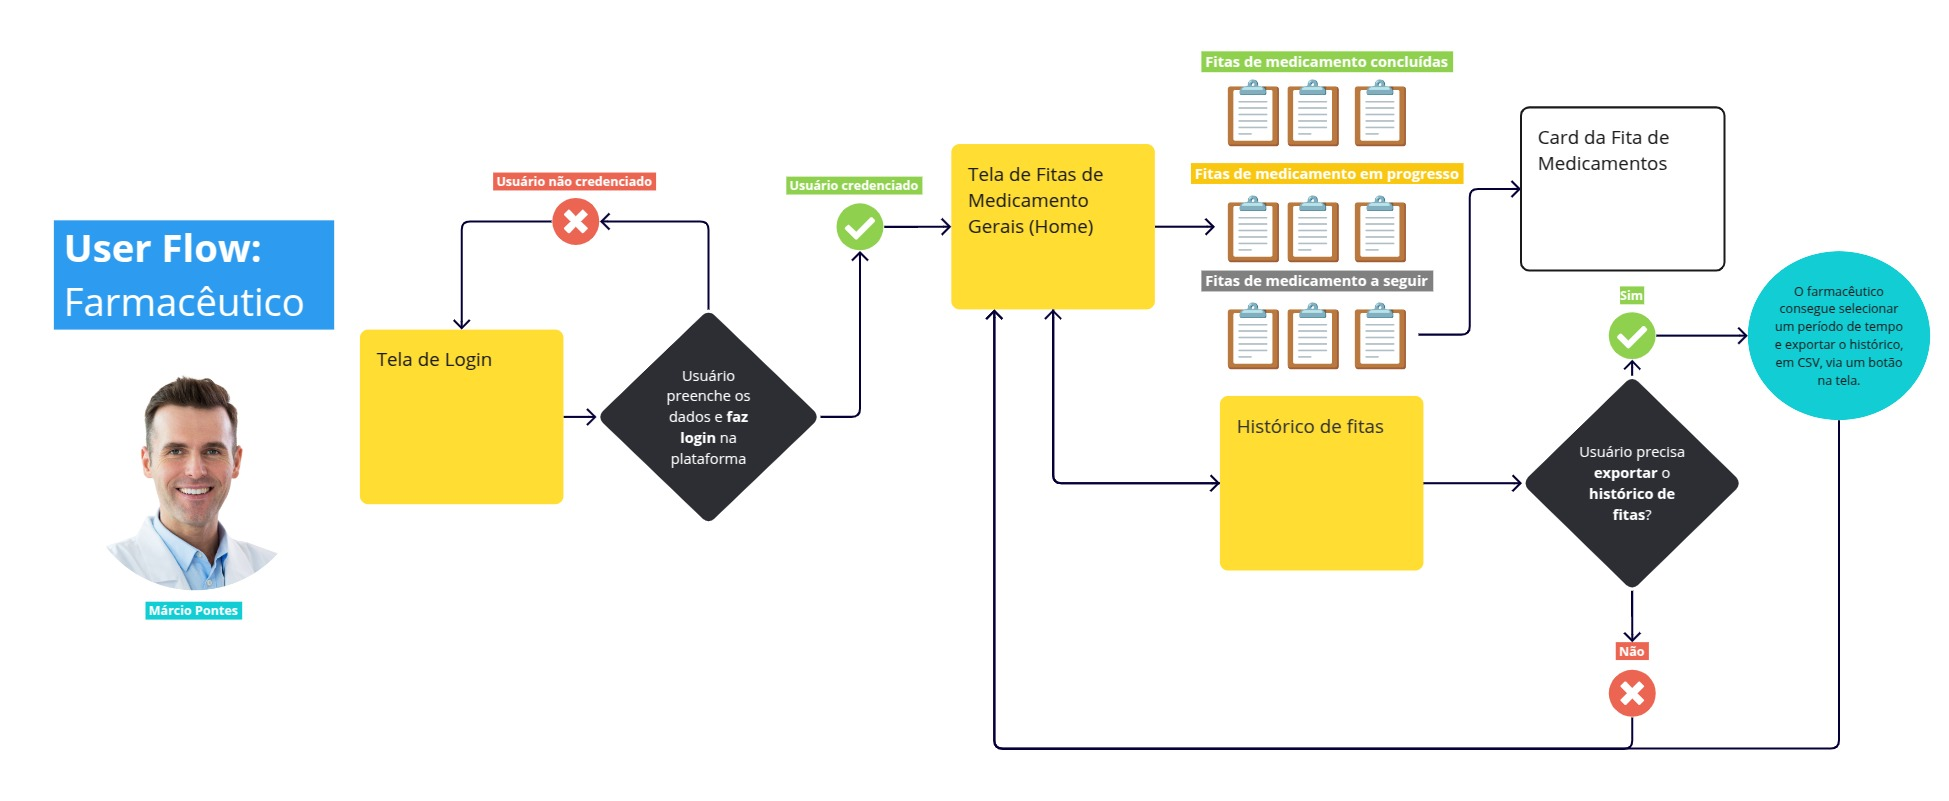
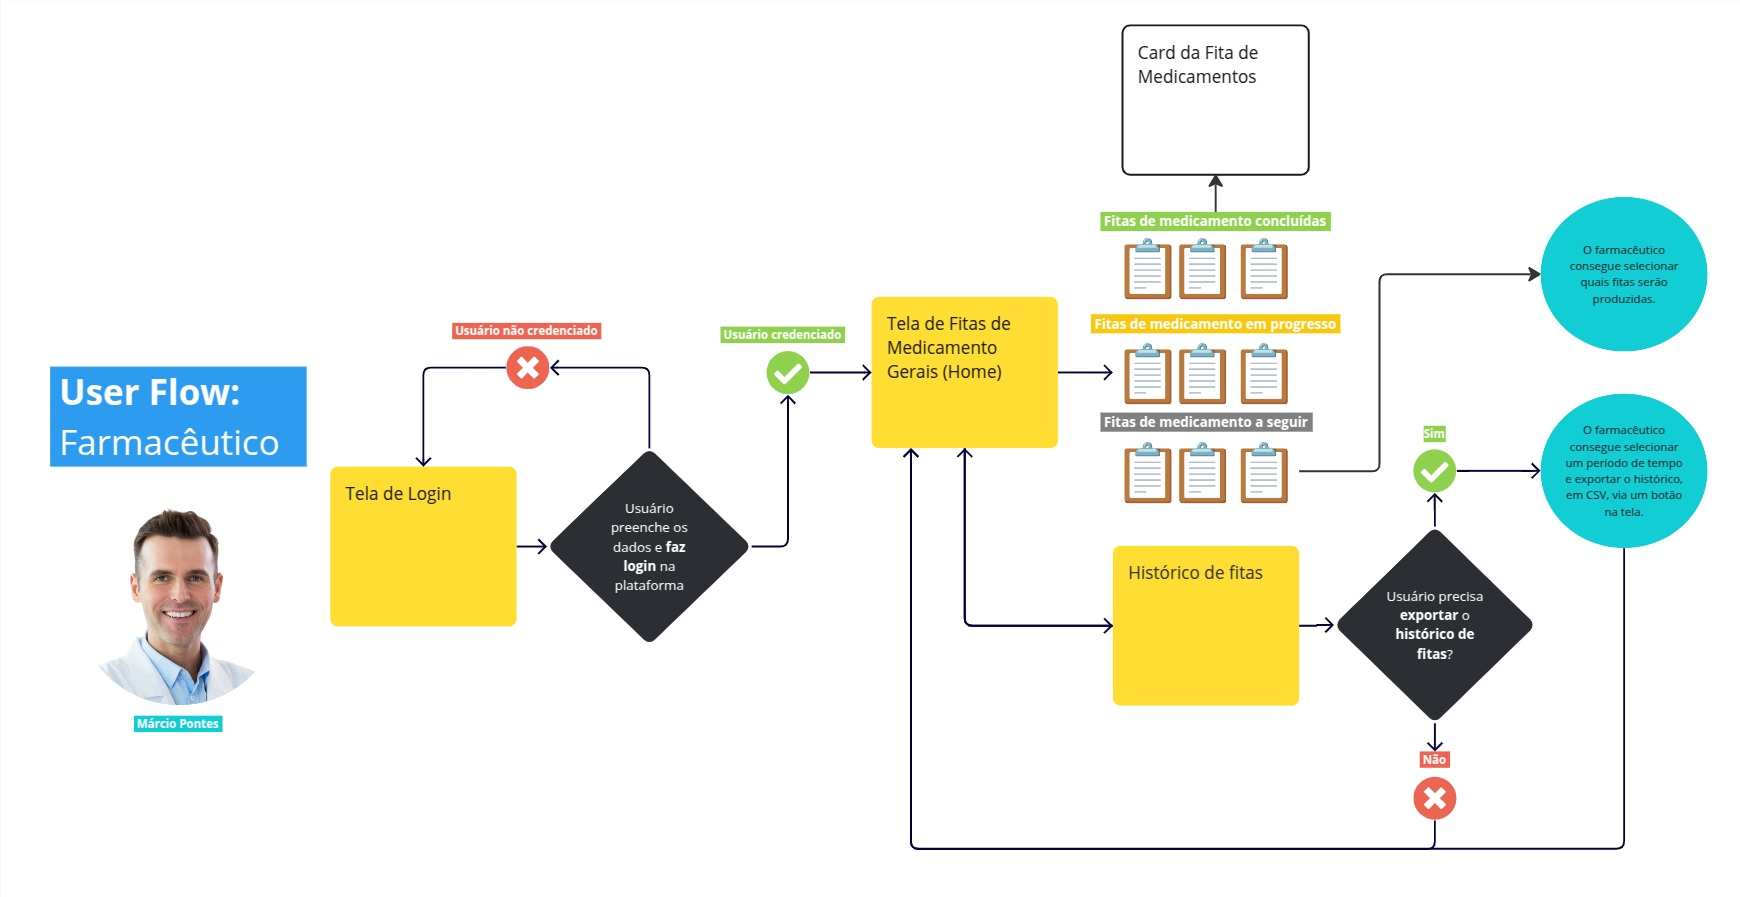
docs: Aplica correções com base nas indicações dos corretores

Changed region(s): [[0.4034, 0.0, 0.9931, 0.9675], [0.0, 0.2497, 0.4655, 0.8427], [0.2483, 0.1873, 0.3414, 0.3121]]

diff --git a/docs/docs/userflow/userflow-famaceutico.md b/docs/docs/userflow/userflow-famaceutico.md
@@ -6,7 +6,6 @@ sidebar_position: 6
 
 # 👨⚕ User flow Farmacêutico
 
-
 <div align="center">
 
   <sub>Figura X - User flow farmacêutico </sub>
@@ -27,7 +26,7 @@ sidebar_position: 6
 2. **Fitas em produção**;
 3. **Fitas a serem produzidas**.
 
-&emsp;Essa página visa permitir ao farmacêutico um melhor controle de quais medicamentos serão necessários para a montagem das fitas,e também em relação a quantidade de fitas produzidas. Essa visualização permitirá que ele possa ter uma melhor noção do que entra e sai da farmárcia, podendo ser utilizado para checar disponibilidade de medicamentos com o sistema de controle de estoque.
+&emsp;Nessa página, ele terá o opção de selecionar quais fitas serão produzidas naquele momento, então se houverem 15 fitas aprovadas ele pode escolher, se necessário, 10 que serão produzidas a primeiro momento. Essa função permite que o farmacêutico possua um melhor controle da produção das fitas, o que é útil para situações adversas que podem ocorrer na farmácia.
 
 &emsp;Na página do histórico, ele pode acessá-las para checar quais medicamentos foram enviados ou devolvidos de cada paciente, isso possibilitará um melhor controle da rastreabilidade dos insumos. Além do mais, ele pode exportar o histórico de fitas como um arquivo csv caso seja necessário.
 
